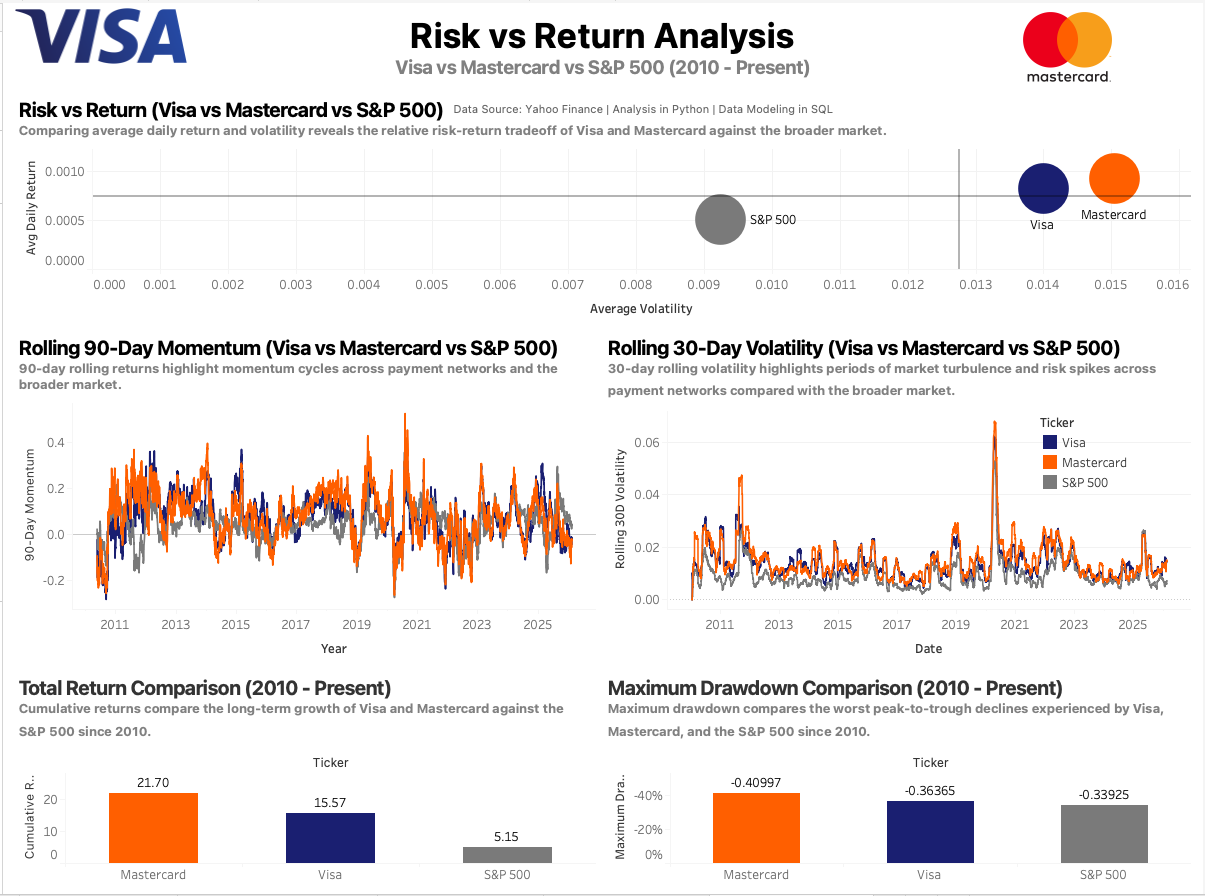
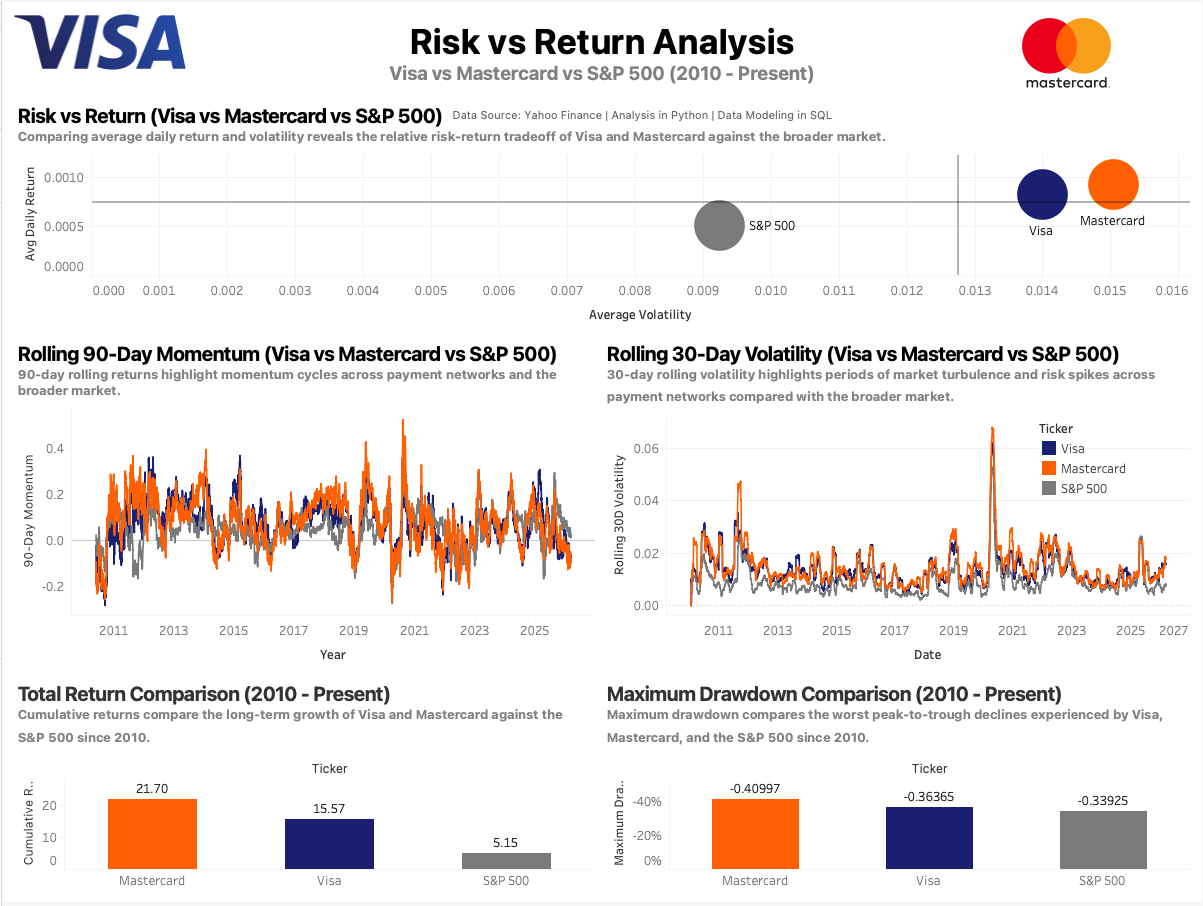
update data to today' s stock price

diff --git a/src/tableau_export.py b/src/tableau_export.py
@@ -23,7 +23,7 @@ def export_market_metrics(db_uri, output_path="data/analytics/market_metrics.csv
 
 # The main function defines the database connection string and calls the export_market_metrics function to perform the export.
 def main():
-    db_uri = "mysql+mysqlconnector://root:yourpassword@localhost:3306/paymentrails"
+    db_uri = "mysql+mysqlconnector://root:mypassword@localhost:3306/paymentrails"
     export_market_metrics(db_uri)
 
 # The script can be run directly to refresh the analytics export.

diff --git a/README.md b/README.md
@@ -115,7 +115,7 @@ Visa and Mastercard represent two of the largest and most established players in
 ### 1. Payment Network Market Analysis
 • The published Tableau dashboard can be found [here](https://public.tableau.com/app/profile/nathan.ho2158/viz/PaymentNetworkMarketAnalysis/PaymentNetworkAnalysis)
 
-![Payment Network Market Analysis](dashboards/PaymentMarketAnalysis.png)
+![Payment Network Market Analysis](dashboards/PaymentNetworkAnalysis.png)
 
 This dashboard provides a high-level comparison of Visa and Mastercard across market performance and financial metrics. The goal is to highlight differences in growth, scale, and long-term market behavior between the two payment networks.
 
@@ -175,7 +175,7 @@ PaymentRails/
 │       └── clean_market_prices.sql
 │
 ├── dashboards/
-│   ├── PaymentMarketAnalysis.png
+│   ├── PaymentNetworkAnalysis.png
 │   ├── RiskVsReturnAnalysis.png
 │   └── FinancialPerformanceAnalysis.png
 │
